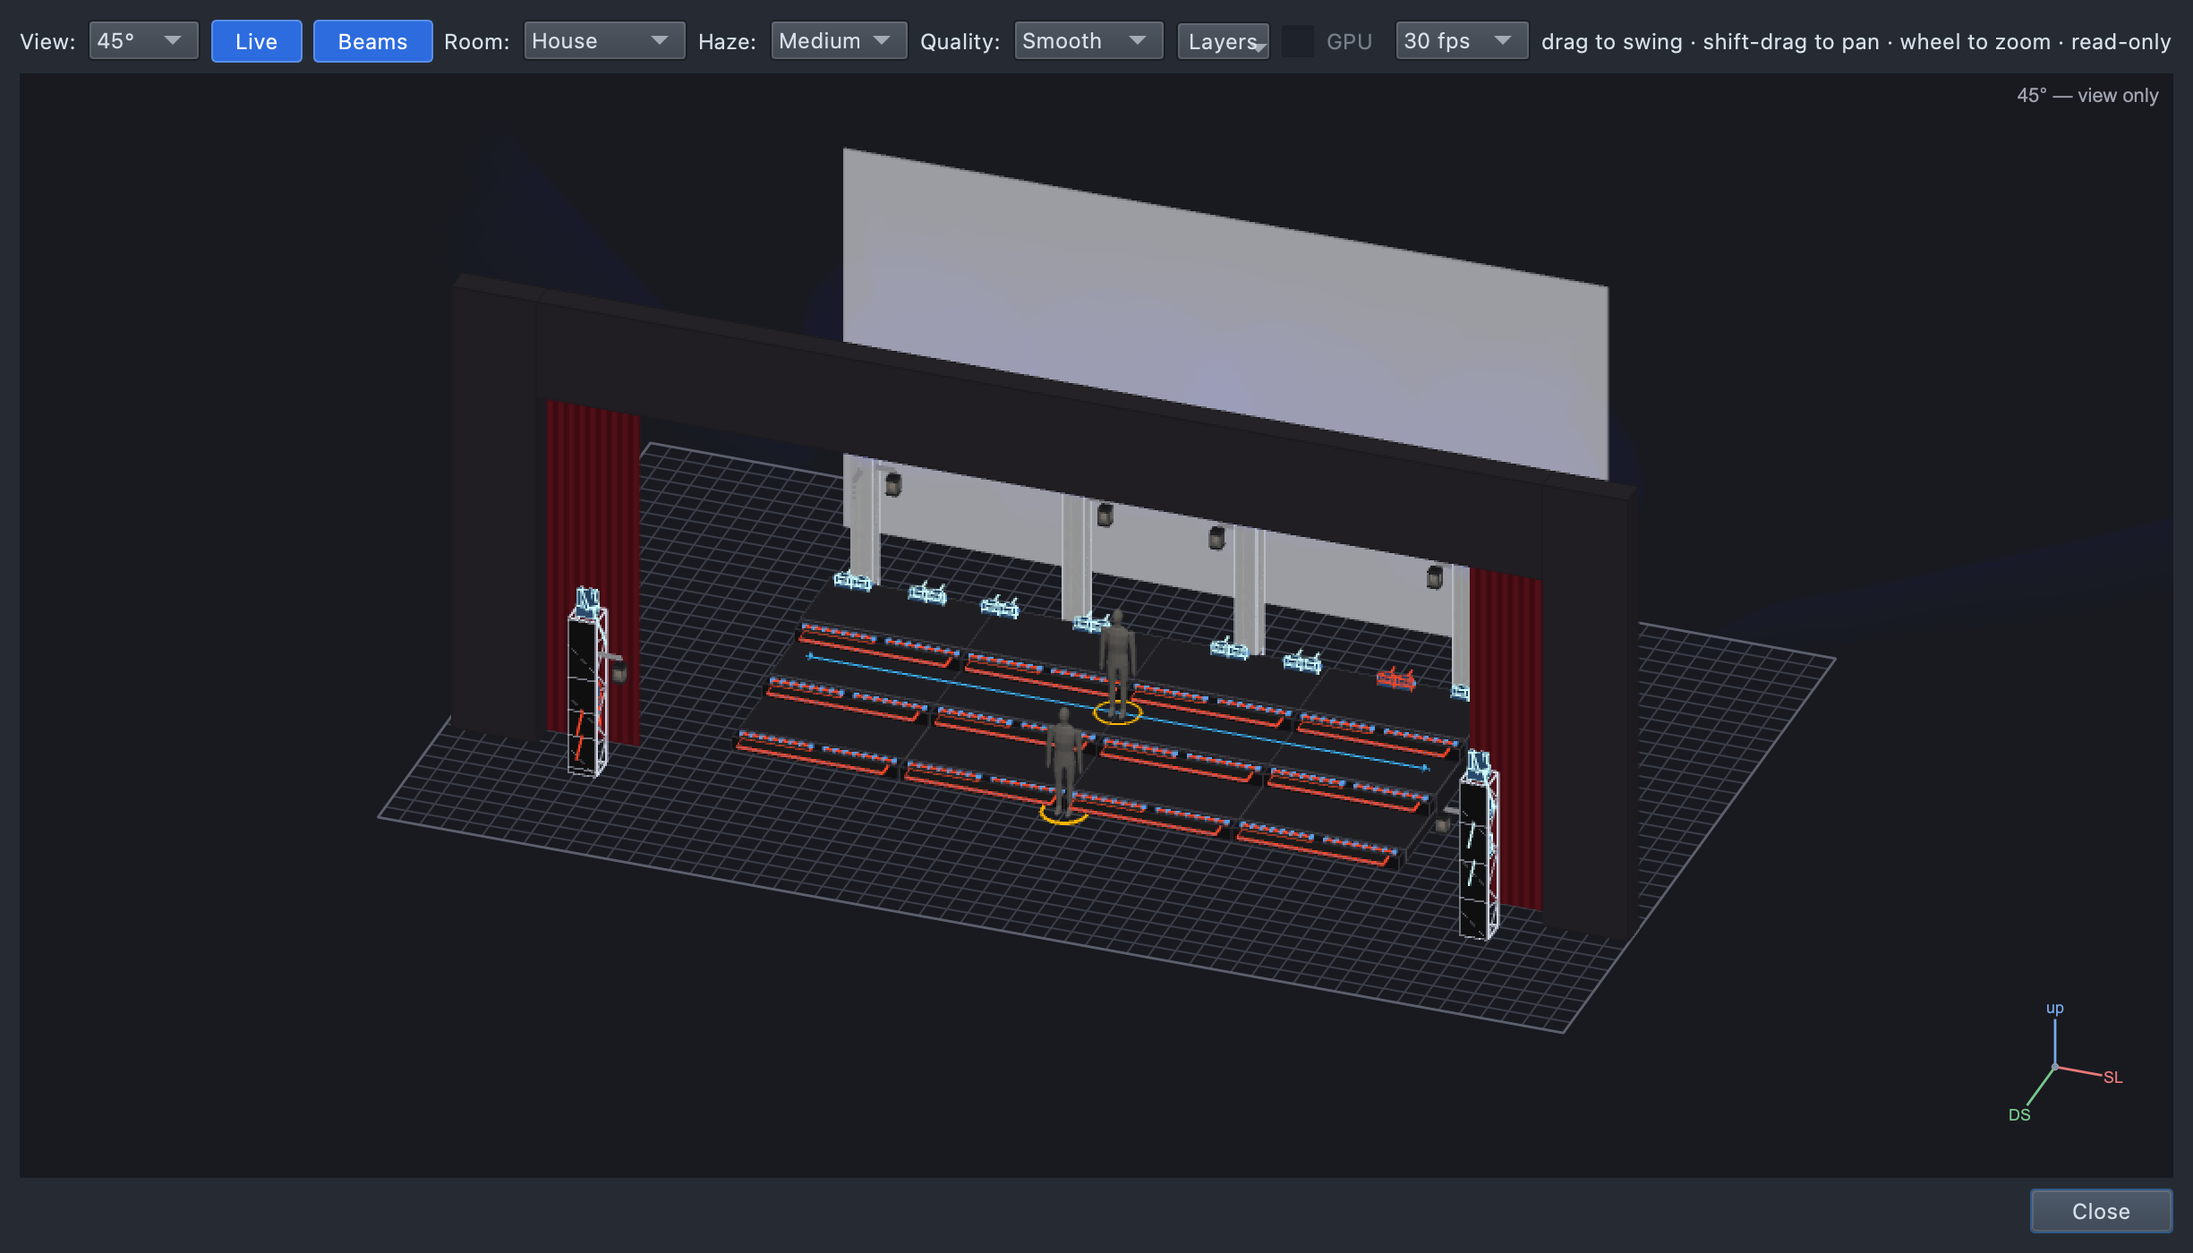
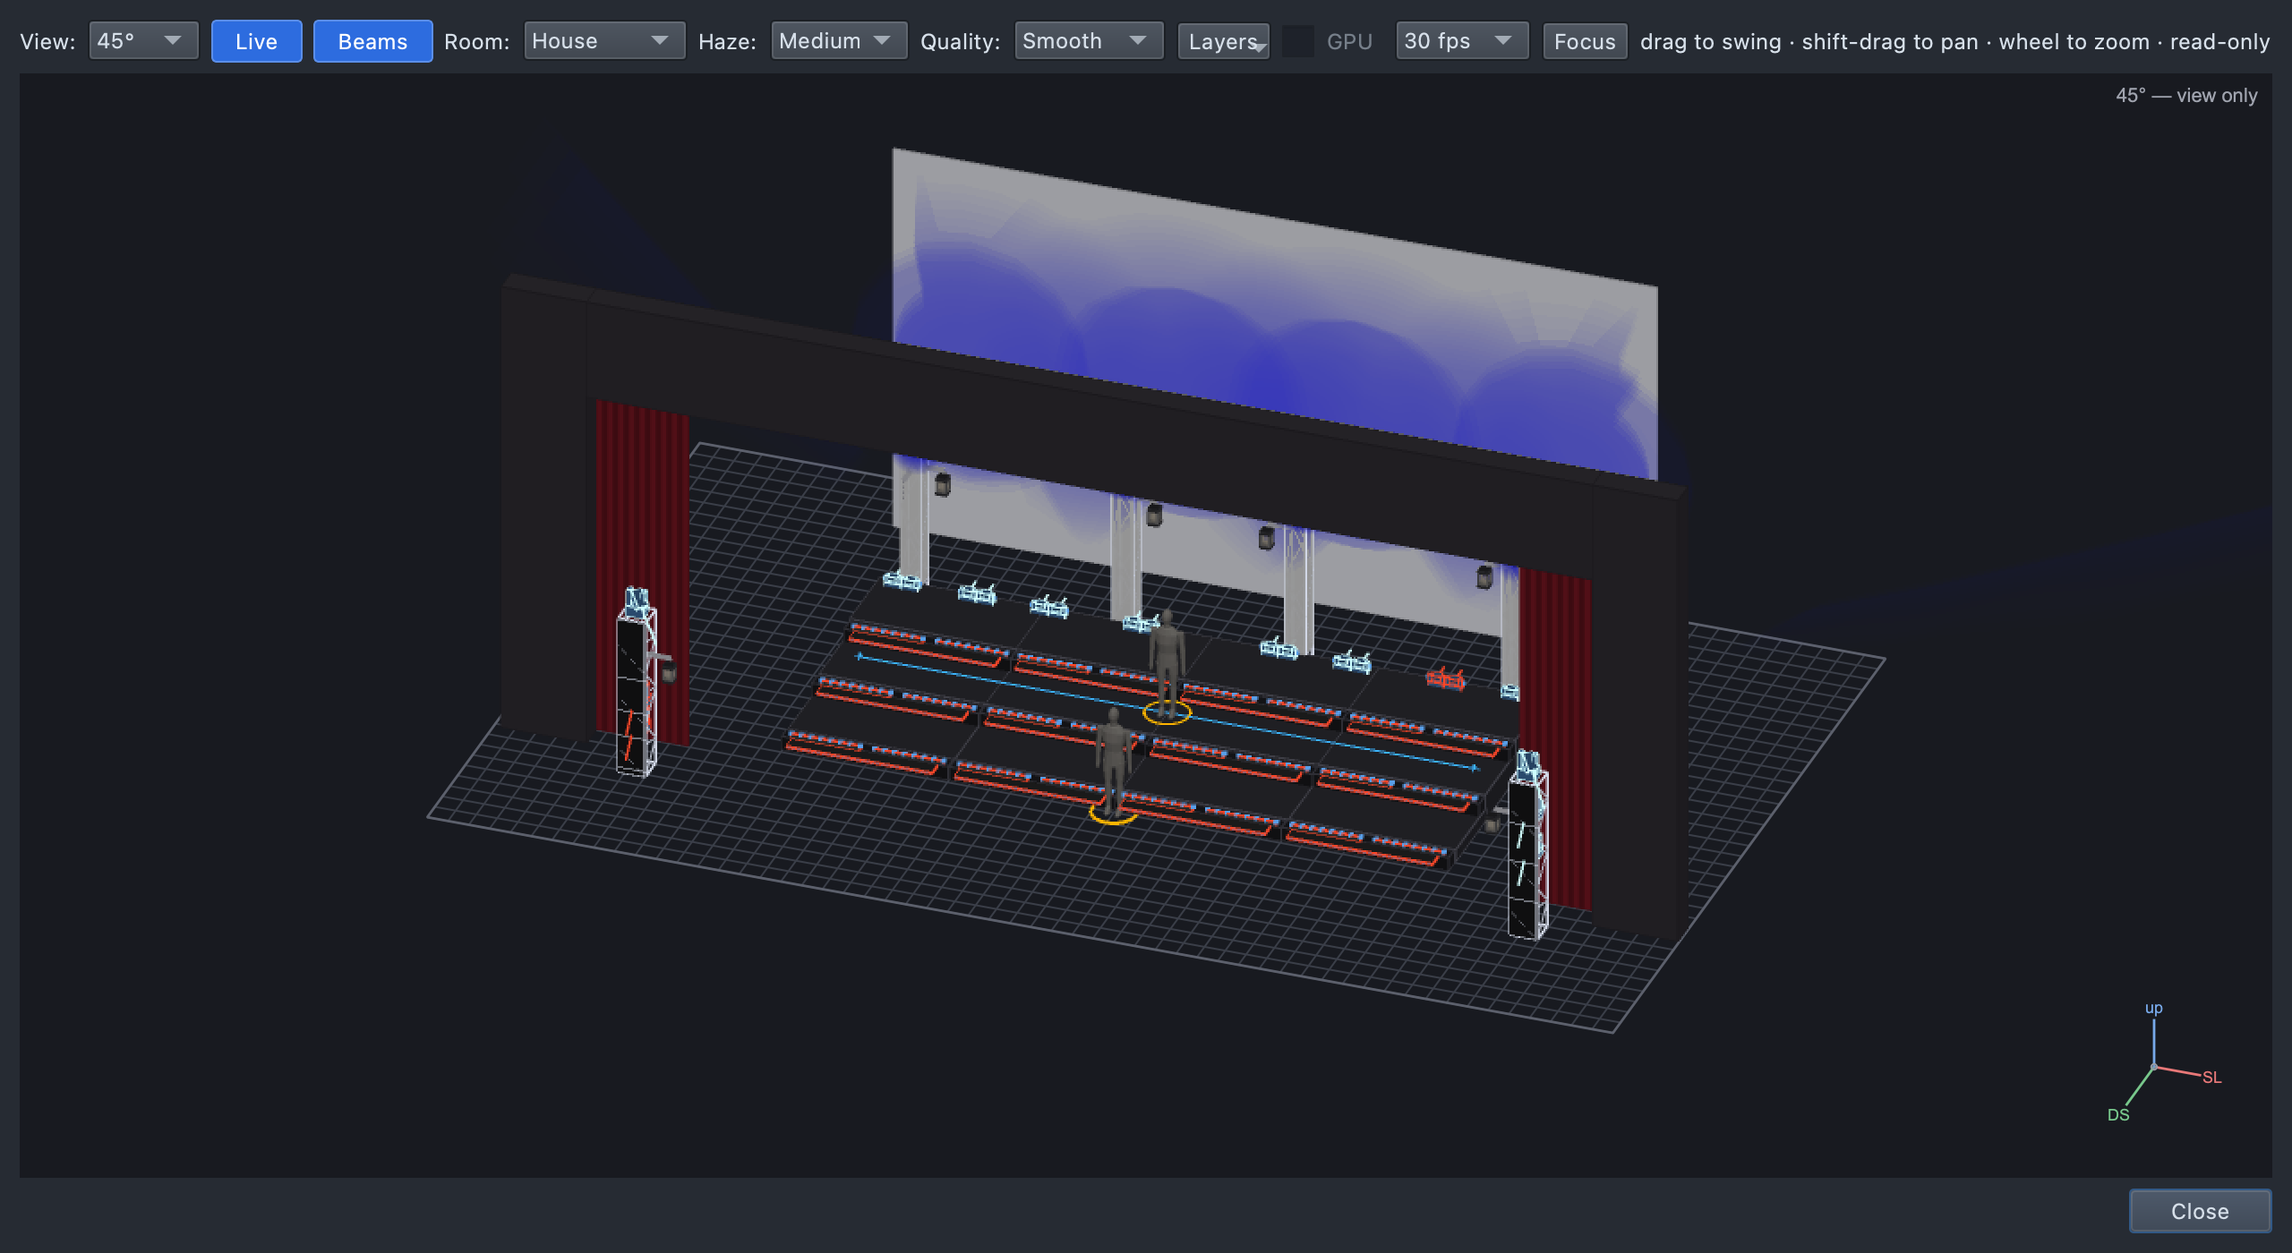
Course: Lesson 1.1 after the app fixes
A new production is current by itself, so the handout's Make current
step, its picture and the test's step 9 go (the handout warns that the
Current button would unset it; the typed version drops 'production
current'). The drop area is readable, so the handout quotes it. The cyc
reads a clear blue, brightest at the top. The test no longer hides the
window before deleting the App. Pictures retaken; COURSE_PLAN section 8
marks each item done -- the moving-head definition stays open (Branson's
call), so Level 1 stays on non-moving groups.

diff --git a/ui/test/courseshow/courseshow_test.cpp b/ui/test/courseshow/courseshow_test.cpp
@@ -119,7 +119,6 @@ const QStringList kLessonOneTyped = {
     "StepTops colour \"Warm White\" dimmer 75",
     "cue + \"Chorus\"",
     "Steps colour Magenta dimmer Full",
-    "production current",
 };
 
 /* What Lesson 1 ends with: each cue's own layers and their looks. */
@@ -303,9 +302,6 @@ void CourseShow_Test::cleanupTestCase()
             mon->m_overviewDlg->close();
     settle();
     m_app->doc()->resetModified();
-    // Off the screen first, as closing the window does in the app.
-    m_app->hide();
-    settle();
     delete m_app;
     m_app = nullptr;
 }
@@ -443,18 +439,11 @@ static bool lessonOneByMouse(Doc *doc, ShowTreeView *view)
             }
         }
     }
-    // Step 9: make it the show GO plays -- click the production, then
-    // Make current on its page.
-    if (!view->selectNode(st->productions().first().id))
-        { qWarning() << "select production"; return false; }
-    settle();
-    QPushButton *current = view->findChild<QPushButton *>("stProdCurrent");
-    if (current == nullptr || current->text() != QStringLiteral("Make current"))
-        { qWarning() << "Make current" << (current ? current->text() : QString()); return false; }
-    current->click();
-    settle();
-    if (current->text() != QStringLiteral("▶ Current — click to unset"))
-        { qWarning() << "after Make current" << current->text(); return false; }
+    // No step to make it the show GO plays: the first production in a show
+    // is current by itself (and clicking its Current button would unset it,
+    // so the handout doesn't send students there).
+    if (st->currentProduction() != st->productions().first().id)
+        { qWarning() << "the new production isn't current"; return false; }
 
     if (describe(doc) != kLessonOneResult)
         qWarning() << describe(doc);
@@ -891,7 +880,7 @@ void CourseShow_Test::lessonPictures()
         QVERIFY(shoot(f, dir, "drop-palettes"));
     }
 
-    // --- The finished lesson again: the tracked row, Make current, Run.
+    // --- The finished lesson again: the tracked row, the rig, Run.
     QVERIFY(open(kL1Finish));
     doc = m_app->doc();
     st = doc->showTree();
@@ -916,16 +905,6 @@ void CourseShow_Test::lessonPictures()
             f.callouts << markRect(tree->viewport(), tree->visualItemRect(grey), view, 3);
         QVERIFY(shoot(f, dir, "tracked-row"));
     }
-    QVERIFY(view->selectNode(st->productions().first().id));
-    settle(100);
-    {
-        HelpShots::Frame f;
-        f.grab = view;
-        f.callouts << mark(view->findChild<QPushButton *>("stProdCurrent"), 1)
-                   << mark(view->findChild<QWidget *>("stProduction"), 2);
-        QVERIFY(shoot(f, dir, "make-current"));
-    }
-
     // The Rig Overview of each cue, as Design shows it while it's selected.
     Monitor *mon = Monitor::instance();
     QVERIFY(mon != nullptr);

diff --git a/docs/course/COURSE_PLAN.md b/docs/course/COURSE_PLAN.md
@@ -70,7 +70,7 @@ with GO.*
 
 | # | Lesson | Design idea | In the tool |
 |---|---|---|---|
-| **1.1** | **From a song to cues: your first three looks** *(written; song: "Everybody Scream")* | A song has sections; a cue is a moment where the light changes. A look is a group of lights in a colour at a level. | Production → cue list → cue. A group dropped on a cue is a **layer**; a colour and a level dropped on the layer. Three cues: Pose, Verse, Chorus. Make it current, GO in the Run tab. |
+| **1.1** | **From a song to cues: your first three looks** *(written; song: "Everybody Scream")* | A song has sections; a cue is a moment where the light changes. A look is a group of lights in a colour at a level. | Production → cue list → cue. A group dropped on a cue is a **layer**; a colour and a level dropped on the layer. Three cues: Pose, Verse, Chorus. GO in the Run tab. |
 | 1.2 | **Colour and intensity tell the mood** | Warm vs cool; saturated vs pale; bright isn't always better. Contrast between sections. | Change a look in place (⋯ → Set to), Level… and Colour… for values not in the palette list, a **cue look** for the whole cue. Undo. |
 | 1.3 | **Direction: aim the light** | Front light shows faces; back and side light shape bodies; uplight is drama. Every number needs faces lit. | Stage targets (Soloist DS, Center). Drop **Aim Center** on AT-W-ALL (the audience-tower washes); **Aim Soloist DS** on AT-Spots. Why moving lights need a Position. |
 | 1.4 | **Timing: fades and holds** | A snap is a hit; a slow fade is a breath. Cue timing follows the music. | Fade in / Fade out / Hold on the cue page. Watch the fades in the Rig Overview. |
@@ -267,51 +267,34 @@ and its test change in the same commit, and the course test
 
 ---
 
-## 8. Where the course and the app disagree (found writing Lesson 1.1)
+## 8. Where the course and the app disagreed (found writing Lesson 1.1)
 
-Branson asked for these to be fixed; that is happening on a separate fix
-branch, not in the course. When each lands, the lesson text marked below
-changes:
+Fixed in the app (`fix/course-app-issues`, merged into `feat/show-tree`
+and into this branch), and the course updated to match:
 
-- **1** → Lesson 1.1 handout step 13 (Make current), its picture
-  `make-current.png`, the teacher guide's "GO does nothing" row and Stuck?
-  row, `lessonOneByMouse` step 9 and `production current` in the typed
-  version.
-- **2** → the handout's "(3) the big empty box under Layers" wording.
-- **3** → Lesson 1.3 can start from "AT-W-ALL, Warm White, Full".
-- **4** → the "Not ready is normal" notes (handout, install, rig page).
-- **5** → "a soft blue glow" in the handout.
-- **6** → `CourseShow_Test::cleanupTestCase`'s `hide()` can go.
-
-
-1. **A new production isn't the one GO plays.** After **+ Production**,
-   the Run tab shows nothing to GO until the production is made current
-   (its page → **Make current**). Lesson 1.1 has that as step 9. With a
-   single production in the show, making it current automatically would
-   save every beginner the confusion.
-2. **The drop area's text is hard to read.** On the cue page, the dashed
-   area's "Drag groups or fixtures here…" is very faint in the Blue theme
-   (see `images/lesson-01/new-cue.png`). The handout tells students where
-   it is instead of relying on the text.
-3. **Moving lights have no home.** AT-W-ALL and AT-Spots (the audience
-   towers) are moving heads; lit with only a colour and a level they point at the floor
-   by their tower. Lesson 1.1 uses only non-moving groups; Lesson 1.3
-   introduces Aim. A per-fixture home position (or a show base cue the
-   course ships) would make a first "AT-W-ALL, Warm White, Full" work.
-4. **The footer is red in class.** The teaching show shows **Not ready** in red:
-   "13 universe(s) with fixtures but no output" — true and intended (it
-   must never send DMX). The handout tells students to expect it. A
-   "virtual rig / classroom" setting that silences it would help.
-5. **Blue on the cyc looks pale** in the Rig Overview: pure blue (#0000ff)
-   on the cyc renders as a faint lavender tint, not a strong blue. Students
-   may think the cue didn't work; the handout says "a soft blue glow".
-6. **A crash on close, found by the course test.** `App::~App` deletes the
-   Doc before the Show Tree tab. If the main window is still showing when
-   the App is destroyed, the tab's hide event stops its preview on the
-   Doc's (already freed) ShowTreeController → SIGSEGV. The test now hides
-   the window first; the app fix is one line in `App::~App`, beside the
-   ProgrammingManager one: delete `ShowTreeView::instance()` before
-   `m_doc`. (Not changed in this pass.)
+1. ~~**A new production isn't the one GO plays.**~~ **Done.** A new
+   production becomes current by itself when nothing else has GO. The
+   handout's "Make current" step and its picture are gone; the handout now
+   warns that clicking the **▶ Current** button would *unset* it.
+2. ~~**The drop area's text is hard to read.**~~ **Done.** Readable in every
+   theme (`images/lesson-01/new-cue.png` retaken).
+3. **Moving lights have no home — still open, and not an app bug.** The
+   "Branson 36LED Moving Head" definition (AT-W-ALL) gives Tilt no default,
+   so standing heads sit about 50° below horizontal, and it marks Pan as
+   `Byte="1"`, so the app finds no coarse pan. Branson is deciding about the
+   definition; the classroom show and `derive-classroom-rig.py` leave it as
+   it is. **Until then the Level 1 lessons stay on non-moving groups**
+   (TrussC-RGB, StepTops, Steps); Lesson 1.3 (aim) depends on it.
+4. **The footer is red in class.** Unchanged and intended: the teaching
+   show has no outputs, so it says **Not ready** ("13 universe(s) with
+   fixtures but no output"). The handout, install and rig pages say to
+   expect it.
+5. ~~**Blue on the cyc looks pale.**~~ **Done.** Coloured light on the grey
+   cyc is clearly coloured — brightest at the top, as the cyc boxes aim
+   upward. The handout now says "a clear blue, brightest at the top"
+   (`rig-*.png` retaken).
+6. ~~**A crash on close with the Show Tree up.**~~ **Done.** The course
+   test no longer hides the window before deleting the App.
 
 ---
 
@@ -329,7 +312,7 @@ changes:
 | 9 | Licence | Recommended CC BY 4.0 (text, pictures) + Apache-2.0 (show files, scripts), pending OK (§6). |
 | 10 | Real lights | First hands on the real rig in **December or January**. |
 | 11 | Where students save | On their own computers (see §5 and the install page). |
-| 12 | App issues | Being fixed on a separate branch (§8). |
+| 12 | App issues | Fixed (§8), except the moving-head definition, which is Branson's call. |
 
 **Still open:**
 

diff --git a/docs/course/level-1/lesson-01/handout.md b/docs/course/level-1/lesson-01/handout.md
@@ -89,21 +89,22 @@ show, **(4)** the **page** for what you clicked, **(5)** the command line
 
 ![A new cue](../../images/lesson-01/new-cue.png)
 
-   **(1)** + Cue, **(2)** the Name box, **(3)** the big empty box under
-   **Layers** — the drop area, **(4)** your cue in the tree.
+   **(1)** + Cue, **(2)** the Name box, **(3)** the dashed box under
+   **Layers**, *"Drag groups or fixtures here to add a layer"* — the drop area, **(4)** your cue in the tree.
 
 7. In the Library, open **All → Groups → Trusses**. Drag **TrussC-RGB**
-   onto the empty box under **Layers** (3).
+   onto the dashed box under **Layers** (3).
    - While you drag, the top right says *"a new layer on TrussC-RGB in
      1.0.0 Pose"*.
    - *You should see:* a row **TrussC-RGB** under Layers.
 
 ![Dragging a group onto the cue](../../images/lesson-01/drop-group.png)
 
-8. Open **All → Palettes → Colour**. Drag **Blue** onto the **Cyc
-   Washes** row. Then open **Dimmer** and drag **Full** onto the same row.
+8. Open **All → Palettes → Colour**. Drag **Blue** onto the
+   **TrussC-RGB** row. Then open **Dimmer** and drag **Full** onto the same row.
    - *You should see:* the row says **TrussC-RGB   Blue, Full**, and in the
-     Rig Overview the cyc glows a soft blue.
+     Rig Overview the cyc turns a clear blue, brightest at the top (the cyc
+     boxes aim upward).
 
 ![Colour and level on the layer](../../images/lesson-01/drop-palettes.png)
 
@@ -141,13 +142,11 @@ show, **(4)** the **page** for what you clicked, **(5)** the command line
 
 ### Play it
 
-13. Click **Spring Show** in the tree. On its page click **Make current**.
-    - *You should see:* the button now says **▶ Current — click to
-      unset**. This tells GO which show to play.
+Your production is already the one GO plays: the tree marks it
+**▶ current**. (Don't click its **Current** button — that would turn it
+off.)
 
-![Make current](../../images/lesson-01/make-current.png)
-
-14. Click the **Run** tab (⇧⌘0). Press **GO** (or **Space**) three times.
+13. Click the **Run** tab (⇧⌘0). Press **GO** (or **Space**) three times.
     - *You should see:* NEXT moves down the list; the stage goes Pose →
       Verse → Chorus.
 
@@ -155,7 +154,7 @@ show, **(4)** the **page** for what you clicked, **(5)** the command line
 
    **(1)** GO, **(2)** your cues, **(3)** what the next GO will change.
 
-15. **Save** with your name: **File → Save As** → `Lesson01-yourname.qlcc`.
+14. **Save** with your name: **File → Save As** → `Lesson01-yourname.qlcc`.
 
 ## What it should look like
 
@@ -169,7 +168,7 @@ show, **(4)** the **page** for what you clicked, **(5)** the command line
 |---|---|
 | A dialog asked something you didn't expect | Cancel, then click the right row in the tree first (the production for + Cue list). |
 | The group landed in the wrong cue | **Undo** (⌘Z) and click the right cue first. |
-| GO does nothing | Step 13: make the production current. |
+| GO does nothing | Is **Spring Show** marked **▶ current** in the tree? If not, click it and click its **Current** button once. |
 | Nothing lights in the Rig Overview | Is a **cue** selected in the tree (the stage shows the selected cue)? Is **Live** on in the Rig Overview? |
 | You can't find a palette | Type its name in **Filter the Library** at the top left. |
 
@@ -192,7 +191,6 @@ show, **(4)** the **page** for what you clicked, **(5)** the command line
    StepTops colour "Warm White" dimmer 75
    cue + "Chorus"
    Steps colour Magenta dimmer Full
-   production current
    ```
 
    Names with spaces go in quotes. `dimmer 75` finds the palette **75%**.

diff --git a/docs/course/level-1/lesson-01/teacher-guide.md b/docs/course/level-1/lesson-01/teacher-guide.md
@@ -46,7 +46,7 @@ Say the word, point at it on the projector, use it in a sentence.
 |---|---|---|
 | 0–10 | **Design idea** (no computers) | Reading a song |
 | 10–20 | **Teacher demo** (projector) | Build cue 1.0.0 live; the class calls the steps |
-| 20–40 | **Hands-on** (pairs/triads, roles) | Handout Part 2, steps 1–15 |
+| 20–40 | **Hands-on** (pairs/triads, roles) | Handout Part 2, steps 1–14 |
 | 40–45 | **Check / share** | Two groups GO their cues for the class |
 | 45–50 | **Exit ticket** | On paper |
 
@@ -78,7 +78,7 @@ handout up so they can read ahead):
    out "Tracking" beside it and that the `01` numbers the cues 1.0.0, 1.0.1…
 2. **+ Cue** → type `Pose`, Return.
 3. Library → **All → Groups → Trusses → TrussC-RGB**: drag it onto the
-   empty box under **Layers**. Read the top-right hint aloud while dragging
+   dashed box under **Layers**. Read the top-right hint aloud while dragging
    (*"a new layer on TrussC-RGB in 1.0.0 Pose"*). "A **layer** is one group
    doing one thing in this cue."
 4. **Blue** then **Full** onto the row. Watch the cyc turn blue.
@@ -110,7 +110,7 @@ Stop there; the students build the rest.
 | A layer in the wrong cue | Dropped while another cue was selected | "Undo, click the right cue, drop again." |
 | Stage stays dark | No cue selected (the stage shows the selected cue in Design), or the Rig Overview's **Live** is off | "Click your cue in the tree." |
 | Cue numbers 1.0.0.5 or similar | + Cue pressed with an earlier cue selected | Fine for now; cue numbers never renumber. Delete and redo if it bothers them. |
-| GO does nothing in the Run tab | Production not made current (step 13) | "Click Spring Show → Make current." |
+| GO does nothing in the Run tab | The production was un-set (someone clicked its **▶ Current** button) | "Click Spring Show, then its Current button once." |
 | Footer says **Not ready** in red | Expected: the show has no outputs | "That's because it isn't plugged into real lights — on purpose." |
 
 ## 4. Check for understanding (while circulating)

diff --git a/docs/course/level-1/lesson-01/at-home.md b/docs/course/level-1/lesson-01/at-home.md
@@ -18,7 +18,7 @@ Do **one** of these.
    Pose, Verse, Chorus. Use the handout's steps if you get stuck.
 4. Now make it **yours**: change the colours to tell a different story
    (a sad song? a spooky one?). Change at least one colour in each cue.
-5. Make the production current and play it in the **Run** tab.
+5. Play it in the **Run** tab (GO three times).
 6. Save it as `Lesson01-Home-yourname.qlcc` and bring it (USB stick or the
    class folder), or hand in a screenshot of each cue in the Rig Overview.
 

diff --git a/docs/course/level-1/lesson-01/slides.md b/docs/course/level-1/lesson-01/slides.md
@@ -74,13 +74,13 @@ teacher says. It can be turned into a deck as it is.*
 
 ## 11. GO
 
-- Pictures: `make-current.png`, `run-tab.png`
-- Make the production current, Run tab, GO ×3.
+- Picture: `run-tab.png`
+- The new production is already current (▶ current): Run tab, GO ×3.
 
 ## 12. Your turn
 
 - Roles: Driver · Navigator · Designer — switch every cue.
-- Handout Part 2, steps 1–15.
+- Handout Part 2, steps 1–14.
 
 ## 13. Exit ticket
 
